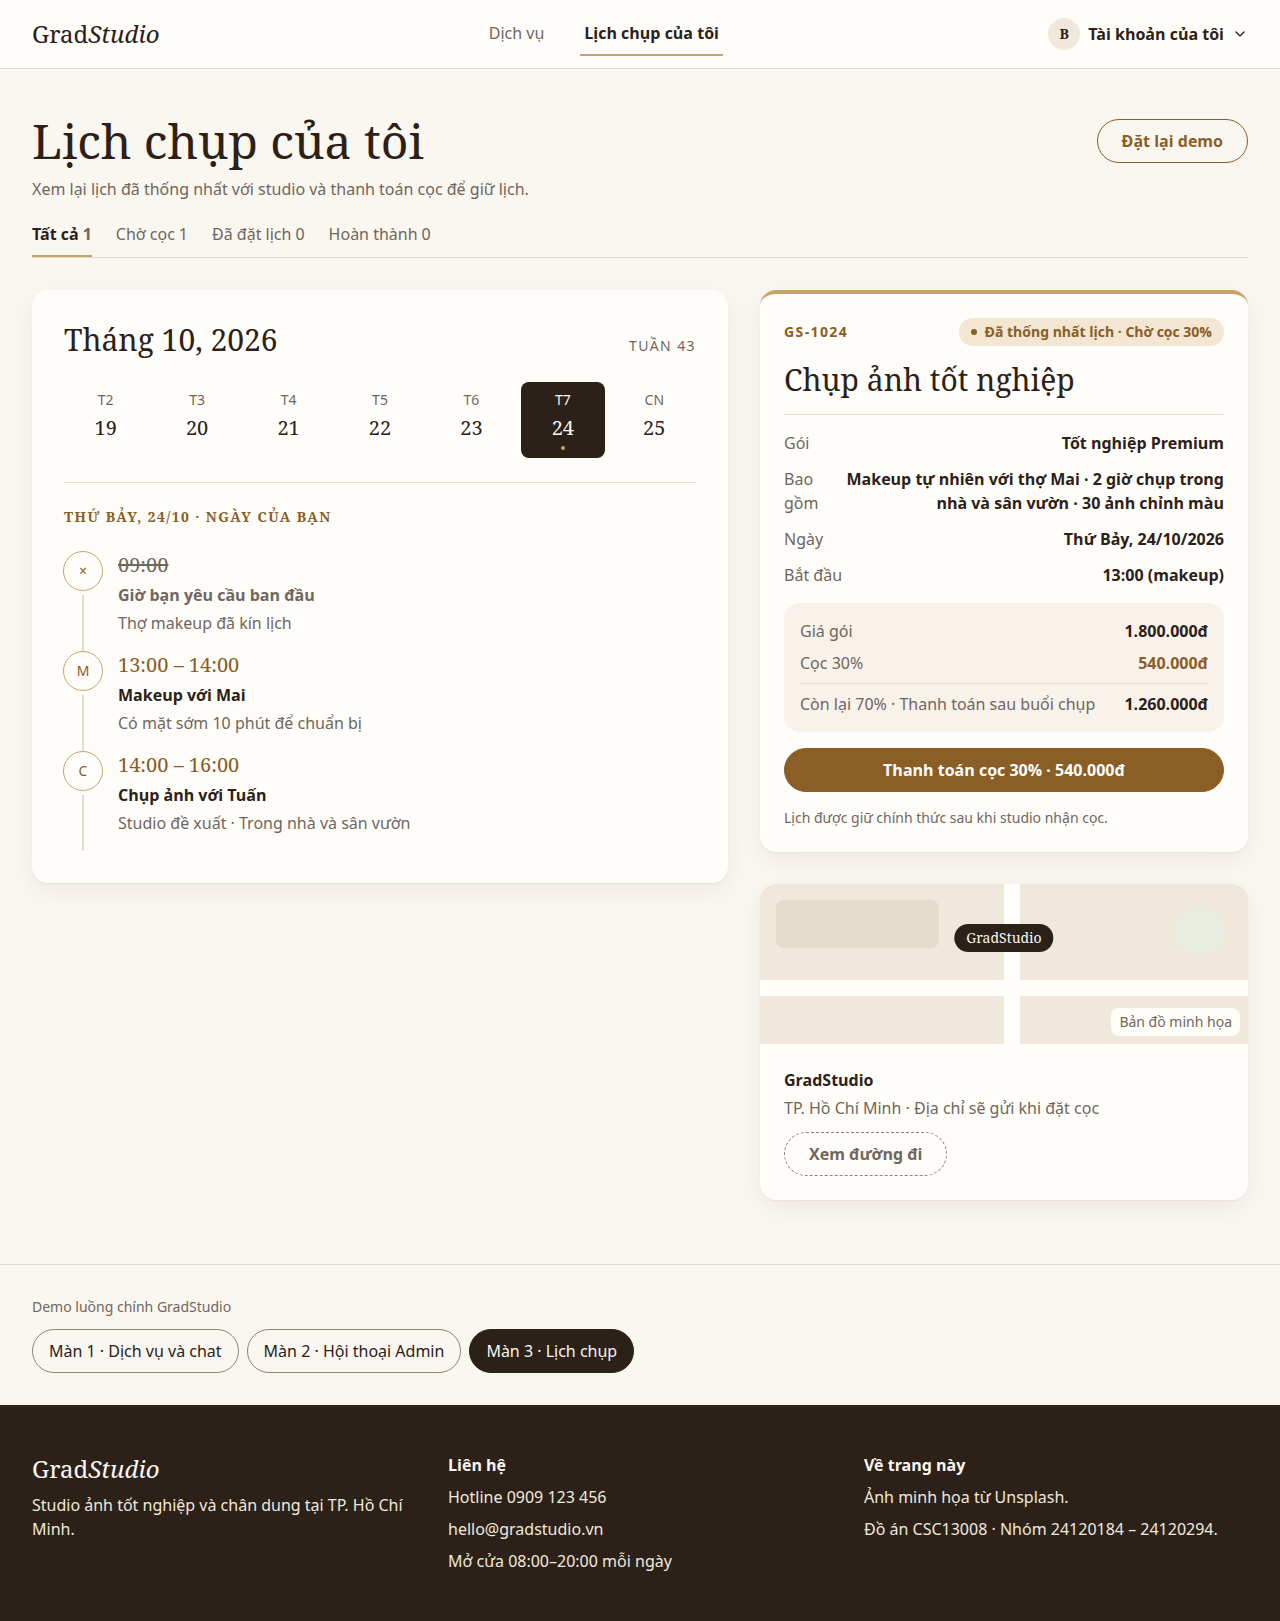
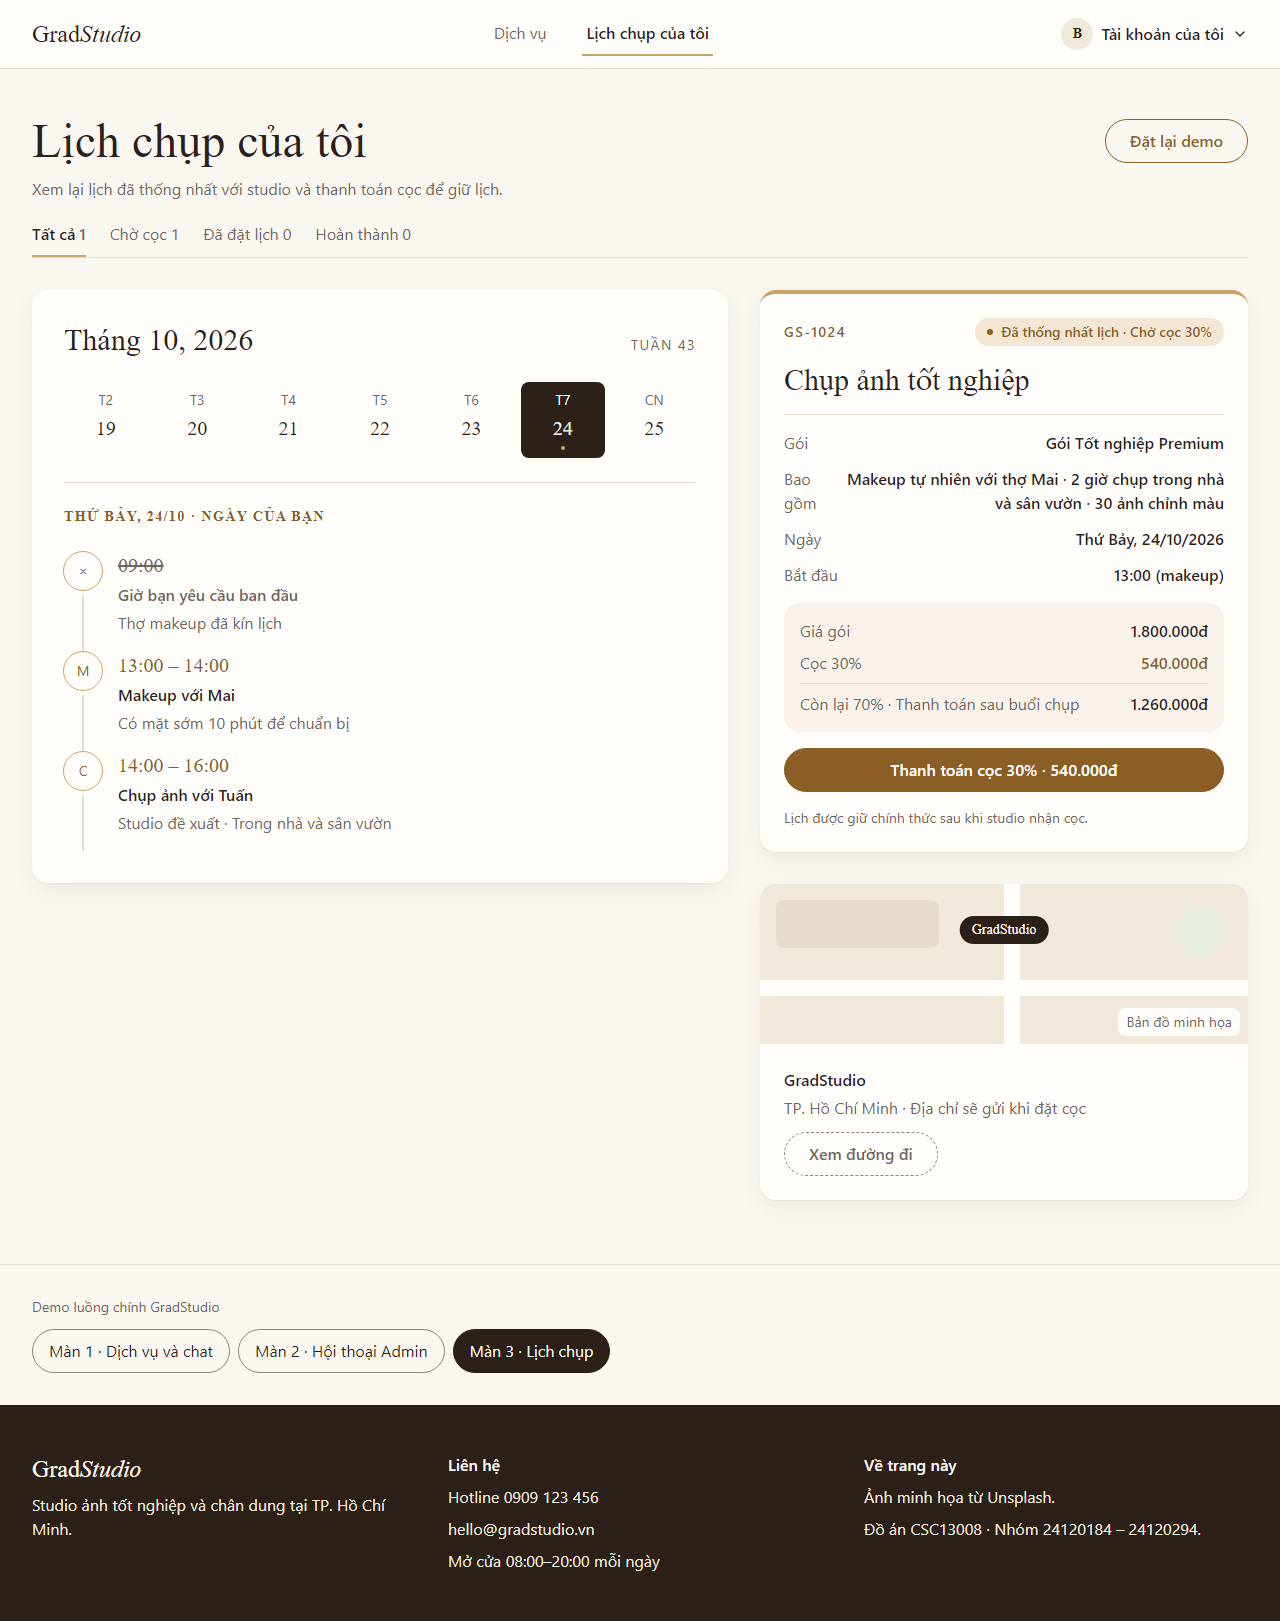
fix: cross-check screens 1-3 (map pin spacing scale and package name on screen 3)

diff --git a/src/components/lich-chup/Schedule.jsx b/src/components/lich-chup/Schedule.jsx
@@ -62,11 +62,11 @@ export function StudioMap({ className = '' }) {
   return (
     <section aria-labelledby="dia-diem" className={`${CARD} overflow-hidden ${className}`}>
       <div aria-hidden="true" className="relative h-40 bg-sand">
-        <div className="absolute inset-x-0 top-24 h-4 bg-paper" />
+        <div className="absolute inset-x-0 bottom-12 h-4 bg-paper" />
         <div className="absolute inset-y-0 left-1/2 w-4 bg-paper" />
         <div className="absolute top-4 left-4 h-12 w-1/3 rounded-lg bg-line" />
         <div className="absolute top-6 right-6 size-12 rounded-full bg-success-soft" />
-        <span className="absolute top-10 left-1/2 -translate-x-1/2 rounded-full bg-ink px-3 py-1 font-serif text-sm text-cream">
+        <span className="absolute top-8 left-1/2 -translate-x-1/2 rounded-full bg-ink px-3 py-1 font-serif text-sm text-cream">
           GradStudio
         </span>
         <span className="absolute right-2 bottom-2 rounded-lg bg-paper px-2 py-1 text-sm text-muted">Bản đồ minh họa</span>

diff --git a/src/data/lichChup.js b/src/data/lichChup.js
@@ -4,7 +4,7 @@ export const booking = {
   code: 'GS-1024',
   title: 'Chụp ảnh tốt nghiệp',
   details: [
-    ['Gói', 'Tốt nghiệp Premium'],
+    ['Gói', 'Gói Tốt nghiệp Premium'],
     ['Bao gồm', 'Makeup tự nhiên với thợ Mai · 2 giờ chụp trong nhà và sân vườn · 30 ảnh chỉnh màu'],
     ['Ngày', 'Thứ Bảy, 24/10/2026'],
     ['Bắt đầu', '13:00 (makeup)'],

diff --git a/src/index.css b/src/index.css
@@ -49,6 +49,11 @@
 }
 
 @layer base {
+  @font-face {
+    font-family: "Georgia";
+    src: local("Palatino Linotype"), local("Times New Roman");
+    unicode-range: U+1ED0-1ED9;
+  }
   html {
     background-color: var(--color-cream);
     color: var(--color-ink);
